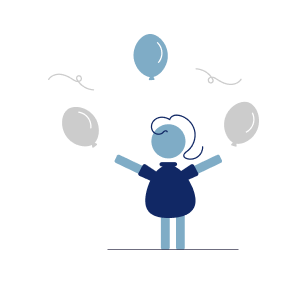
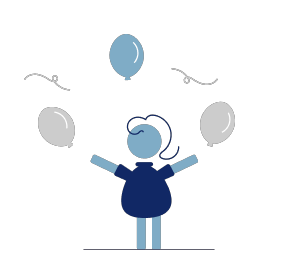
Small css changes

diff --git a/client/deftdetective-app/src/components/Login.js b/client/deftdetective-app/src/components/Login.js
@@ -23,25 +23,26 @@ function Login() {
   }
 
   return (
-    <form onSubmit={(e) => handleSubmit(e)}>
+    <div className="containerQuestion" >
+      <form onSubmit={(e) => handleSubmit(e)}>
+        <h3>Login</h3>
+        <label>Email:</label>
+        <input type="email" name="email" value={email} onChange={(e) => setEmail(e.target.value)} />
 
-      <h3>Login</h3>
+        <label>Password:</label>
+        <input type="password" name="password" value={password} onChange={(e) => setPassword(e.target.value)} />
 
-      <label>Email:</label>
-      <input type="email" name="email" value={email} onChange={(e) => setEmail(e.target.value)} />
-
-      <label>Password:</label>
-      <input type="password" name="password" value={password} onChange={(e) => setPassword(e.target.value)} />
-
-      <Link to="/submissionmessage"><button type="submit" onClick={(e) => handleSubmit(e)}>Login</button></Link>
-
-      {login ? (
-        <p className="text-success">You Are Logged in Successfully</p>
-      ) : (
-        <p> </p>
-      )}
-    </form>
-
+        <Link to="/submissionmessage"><button type="submit" onClick={(e) => handleSubmit(e)}>Login</button></Link>
+        <div>
+          <Link to="/submitmessage"><button className="noneyet" type="submit">See last page</button></Link>
+        </div>
+        {login ? (
+          <p className="text-success">You Are Logged in Successfully</p>
+        ) : (
+          <p> </p>
+        )}
+      </form>
+    </div>
   )
 }
 

diff --git a/client/deftdetective-app/src/pages/When.js b/client/deftdetective-app/src/pages/When.js
@@ -46,12 +46,13 @@ export function When() {
                 <h1 className="question">When?</h1>
                 <h2 className="questiondescription">Share the occurence date and time if available, or simply provide a time frame.</h2>
                 <div className="when-information">
-                    <form onSubmit={handleSubmit}>
+                    <form className="inputContainer" onSubmit={handleSubmit}>
                         <div>
                             <p className="value">Date*</p>
                             <div>
                                 <label className="dateInput">
                                     <input
+                                        className="dateInput2"
                                         type="date"
                                         name="date"
                                         value={formData.date}
@@ -60,6 +61,7 @@ export function When() {
                                     />
                                     <span>-</span>
                                     <input
+                                        className="dateInput2"
                                         type="date"
                                         name="date"
                                         value={formData.date}

diff --git a/client/deftdetective-app/src/pages/SubmitMessage.js b/client/deftdetective-app/src/pages/SubmitMessage.js
@@ -1,15 +1,20 @@
 import './style.css';
+import Logo from '../images/Logo.png';
+import Illustration from '../images/Illustration.png'
 
 export function SubmitMessage() {
     return (
 
         <>
-            <body className="firstLastPage">
+            <body className="containerHome">
+
                 <div className="container">
-                    <h1>Submitted!</h1>
-                    <h2>We have send an Email to all the location you selected.
+                    <img src={Logo} alt="Logo" className="LastLogo" />
+                    <h1 className="question">Submitted!</h1>
+                    <h2 className="submissiondescription">We have send an Email to all the location you selected.
                         <p>The one that has your lost item will reply you soon!</p>
                     </h2>
+                    <img src={Illustration} alt="Illustration" className="Illustration" />
                 </div>
             </body>
         </>

diff --git a/client/deftdetective-app/src/components/Register.js b/client/deftdetective-app/src/components/Register.js
@@ -4,6 +4,7 @@ import axios from "axios"
 import { Link } from "react-router-dom"
 
 
+
 const API_URL = process.env.REACT_APP_SERVER_URL || "http://localhost:1000"
 
 function Register() {
@@ -26,7 +27,7 @@ function Register() {
   }
 
   return (
-    <div >
+    <div className="containerQuestion" >
       <form onSubmit={(e) => handleSubmit(e)}>
 
         <h3>Sign up</h3>
@@ -38,7 +39,7 @@ function Register() {
         <label>Password:</label>
         <input type="password" value={password} onChange={(e) => setPassword(e.target.value)} />
 
-        <Link to="/submitmessage"><button type="submit" onClick={(e) => handleSubmit(e)}>Create my account</button></Link>
+        <Link><button type="submit" onClick={(e) => handleSubmit(e)}>Create my account</button></Link>
         {register ? (
           <p className="text-success">You Are Registered Successfully</p>
         ) : (

diff --git a/client/deftdetective-app/src/pages/Where.js b/client/deftdetective-app/src/pages/Where.js
@@ -17,11 +17,11 @@ export function Where() {
                 <h1 className="question">Where?</h1>
                 <h2 className="questiondescription">Provide the location of the incident.</h2>
                 <div className="informarion">
-                    <form>
+                    <form className="inputContainer">
                         <MapPage />
                         <div className="buttons">
                             <Link to="/when"><button className="back">Back</button></Link>
-                            <Link to="/preview"><button className="next" type="submit">Done</button></Link>
+                            <Link to="/preview"><button className="next-2" type="submit">Done</button></Link>
                         </div>
                     </form>
                 </div>

diff --git a/client/deftdetective-app/src/pages/style.css b/client/deftdetective-app/src/pages/style.css
@@ -201,6 +201,10 @@ label>textarea {
     border: 1px solid #112865;
 }
 
+.inputContainer {
+    height: 25rem;
+}
+
 .value {
     position: relative;
     right: 8.6rem;
@@ -255,6 +259,10 @@ label>textarea {
     flex: 1;
     text-align: center;
     padding: 0.6rem 1.7rem;
+    border-radius: 0.4375rem;
+    border: 1px solid #112865;
+    height: 1.5rem;
+
 }
 
 .dateInput span {
@@ -277,4 +285,19 @@ back:hover {
     margin-top: 1.4rem;
     position: relative;
     right: 5.5rem;
+}
+
+/* .Illustration {
+    display: block;
+} */
+
+.submissiondescription {
+    color: black;
+    text-align: center;
+    font-family: 'Open Sans', sans-serif;
+    font-size: 0.75rem;
+    font-style: normal;
+    font-weight: 400;
+    line-height: normal;
+    margin: 2rem 3rem;
 }

diff --git a/client/deftdetective-app/src/pages/Preview.js b/client/deftdetective-app/src/pages/Preview.js
@@ -5,9 +5,9 @@ import Logo from '../images/Logo.png';
 export function Preview() {
     return (
         <>
-            <div className="container">
-                <img src={Logo} alt="Logo" className="CornerLogo" />
-                <h1>Preview</h1>
+            <img src={Logo} alt="Logo" className="CornerLogo" />
+            <div className="containerHome">
+                <h1>Report Preview</h1>
                 <Link to="/where"><button>Back</button></Link>
                 <Link to="/signup"><button>Next</button></Link>
             </div>

diff --git a/client/deftdetective-app/src/pages/What.js b/client/deftdetective-app/src/pages/What.js
@@ -54,7 +54,7 @@ export function What() {
                 <h1 className="question">What?</h1>
                 <h2 className="questiondescription">Let us know what's missing. Be as specific as you can.</h2>
                 <div className="information">
-                    <form onSubmit={handleSubmit}>
+                    <form className="inputContainer" onSubmit={handleSubmit}>
                         <div>
                             <p className="value">Item Name*</p>
                             <label>

diff --git a/client/deftdetective-app/src/pages/SignUp.js b/client/deftdetective-app/src/pages/SignUp.js
@@ -5,9 +5,10 @@ import './style.css';
 export function SignUp() {
     return (
         <>
-            <div className="container">
+            <div className="containerHome">
                 <Register />
                 <Login />
+                <Link to="/submitmessage"><button className="noneyet" type="submit">See last page</button></Link>
             </div>
         </>
     )

diff --git a/Description.md b/Description.md
@@ -1,0 +1,1 @@
+All of us have lost important items in our lives and had absolutely no idea where to start looking for them! That's what Deft Detective is for, the mobile app that helps you find them back! The application generates an email to all the places (like bars, restaurants, coffe places, shops and so on) where you have been in a certain period of time and asks them if the object has been found! Three easy steps make the search quicker and more effective: 1. name and describe the object, 2. give the time window, 3. specify the approximate location drawing a polygon on a map. No registration needed, an email address is enough to continue the communication with the businesses, which will reply confirming or denying the finding, also via email.
